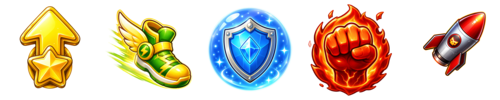
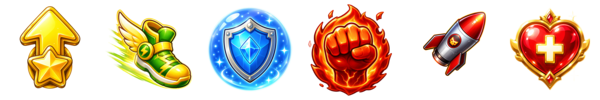
add new feature

diff --git a/src/Game.java b/src/Game.java
@@ -17,11 +17,14 @@ public class Game extends GameEngine{
     private static final int MIN_POWER_LEVEL = 1;
     private static final int MAX_POWER_LEVEL = 10;
     private static final int BUFF_ITEM_SIZE = 50;
+    private static final int BUFF_FRAME_SIZE = 100;
+    private static final int BUFF_FRAMES_PER_ROW = 6;
     private static final int FRONT_LEVEL_UP_BUFF_FRAME = 0;
     private static final int FRONT_SPEED_BUFF_FRAME = 1;
     private static final int BOSS_SHIELD_BUFF_FRAME = 2;
     private static final int BOSS_RAGE_BUFF_FRAME = 3;
     private static final int BOSS_MISSILE_BUFF_FRAME = 4;
+    private static final int BOSS_HEAL_BUFF_FRAME = 5;
     private static final float BGM_VOLUME_OFFSET = -6.0206f;
     private static final double LEVEL_OBJECTIVE_DURATION = 1.0;
     private static final double ELDERLY_X = 220;
@@ -442,11 +445,18 @@ public class Game extends GameEngine{
             return new Image[0];
         }
 
-        int spriteSize = 100;
-        Image[] frames = new Image[5];
+        int sheetWidth = sheet.getWidth(null);
+        int sheetHeight = sheet.getHeight(null);
+        int columns = Math.min(BUFF_FRAMES_PER_ROW, sheetWidth / BUFF_FRAME_SIZE);
+        int rows = sheetHeight / BUFF_FRAME_SIZE;
+        Image[] frames = new Image[columns * rows];
 
-        for (int i = 0; i < frames.length; i++) {
-            frames[i] = subImage(sheet, i * spriteSize, 0, spriteSize, spriteSize);
+        for (int row = 0; row < rows; row++) {
+            for (int col = 0; col < columns; col++) {
+                int index = row * columns + col;
+                frames[index] = subImage(sheet, col * BUFF_FRAME_SIZE, row * BUFF_FRAME_SIZE,
+                        BUFF_FRAME_SIZE, BUFF_FRAME_SIZE);
+            }
         }
 
         return frames;
@@ -1946,8 +1956,12 @@ public class Game extends GameEngine{
     }
 
     private Image bossSupplyItemImage(level5.ItemType type) {
-        if (type == level5.ItemType.SHIELD || type == level5.ItemType.HEAL) {
+        if (type == level5.ItemType.SHIELD) {
             return getBuffFrame(BOSS_SHIELD_BUFF_FRAME);
+        }
+
+        if (type == level5.ItemType.HEAL) {
+            return getBuffFrame(BOSS_HEAL_BUFF_FRAME);
         }
 
         if (type == level5.ItemType.RAGE) {
